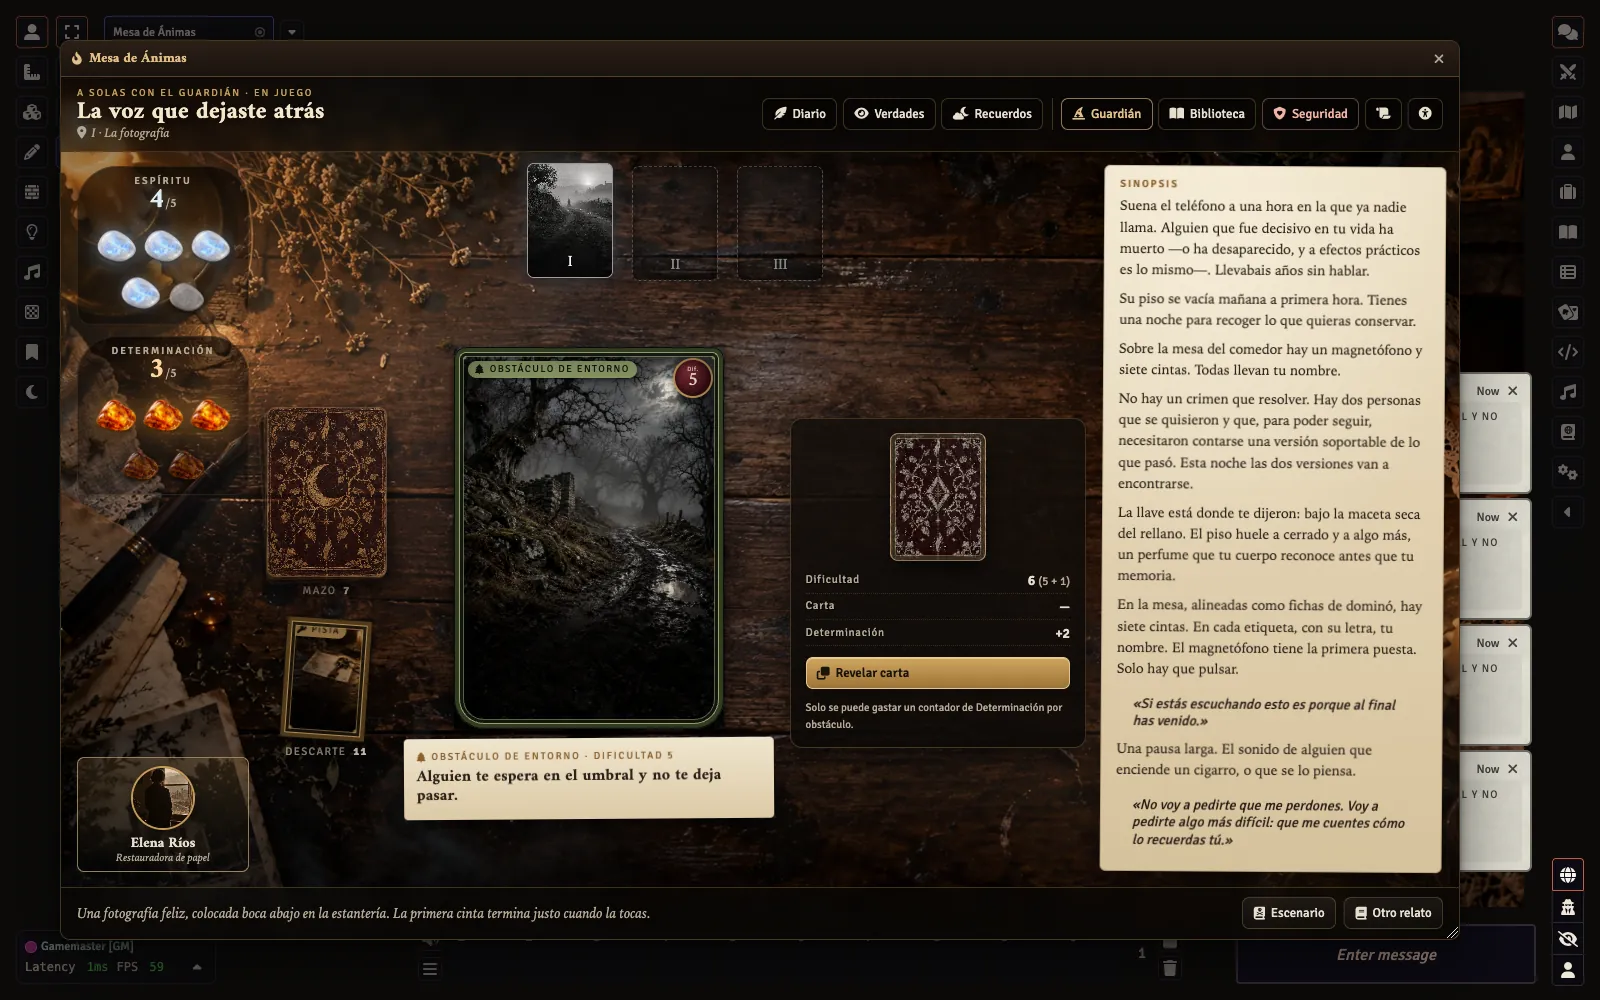
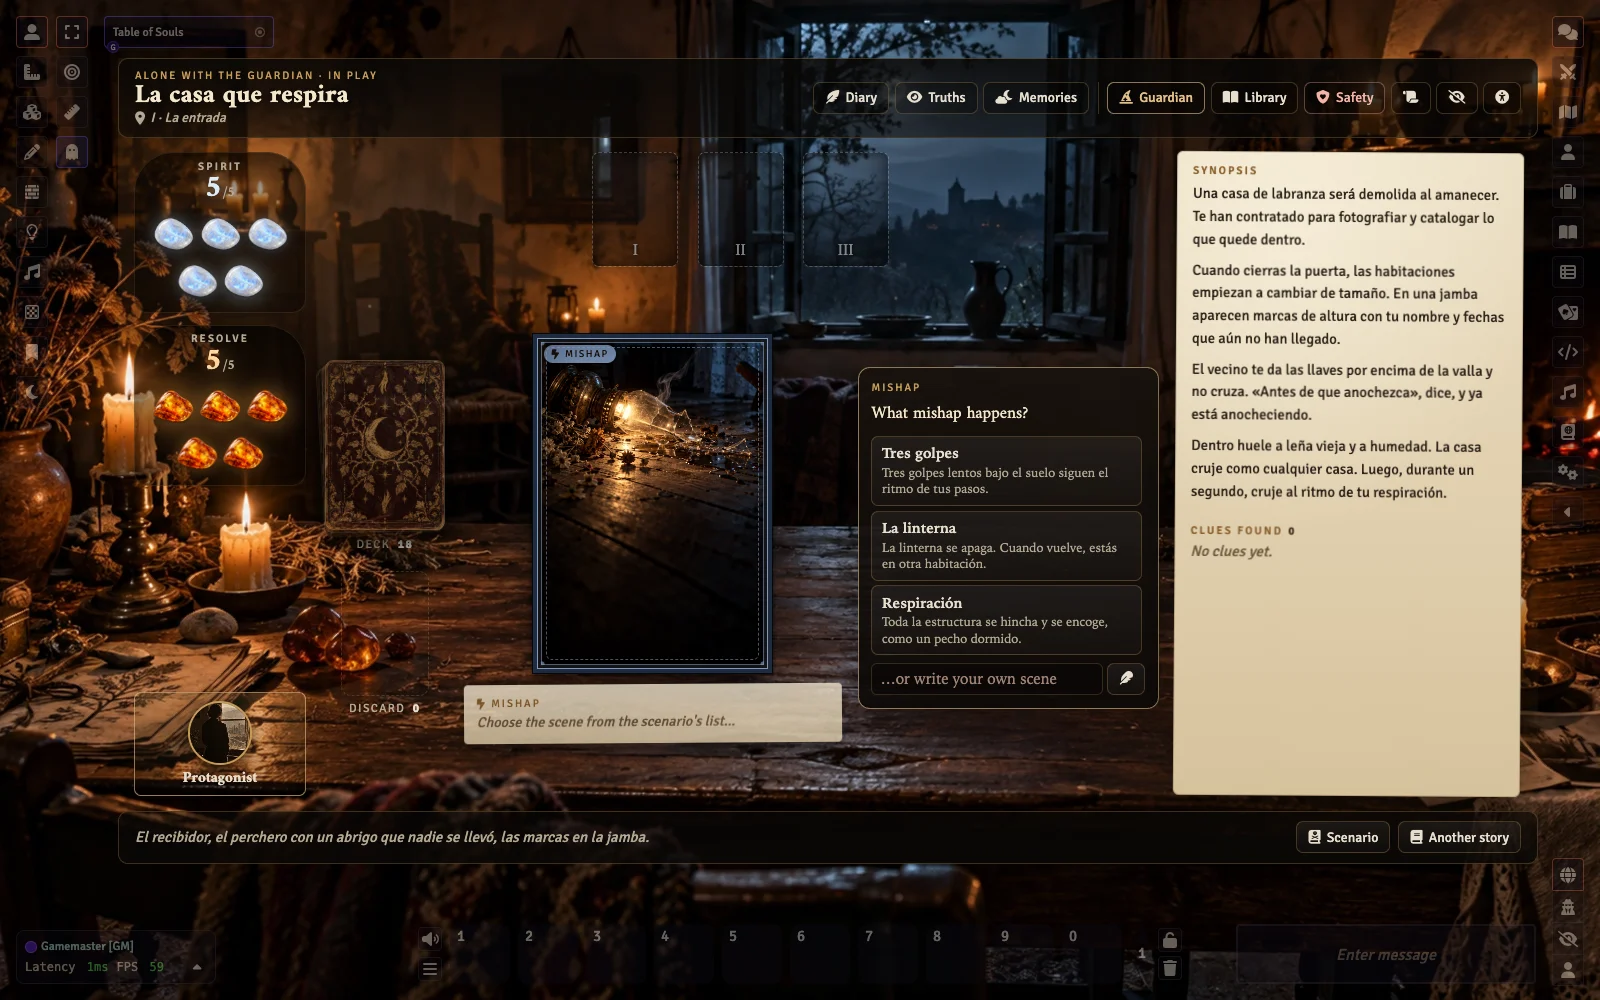
feat: botón de accesibilidad en controles, modo oscuro y web actualizada (2.1.1)

diff --git a/docs/index.html b/docs/index.html
@@ -141,7 +141,8 @@ footer .wrap{display:flex;justify-content:space-between;gap:20px;flex-wrap:wrap}
     <span class="kicker">La Mesa de Ánimas</span>
     <h2>Esto no parece Foundry.<br>Pero funciona como Foundry.</h2>
     <p class="intro">La Mesa es una mesa física vista desde arriba. Robas y la carta sale del mazo, viaja, gira y se asienta. Clic para verla de cerca. Debajo, los documentos <em>Cards</em> de Foundry hacen el trabajo invisible: barajar, robar, descartar, sincronizar.</p>
-    <p class="intro">Nunca se abre sola: tiene su icono en los controles de escena, botones en los directorios y el atajo <b>Mayús + M</b>.</p>
+    <p class="intro">Desde la 2.1 la Mesa no es una ventana: es una <b>capa a pantalla completa sobre la escena de fondo</b>, que cubre toda la pantalla. El ratón atraviesa lo que no es panel, y un ojo en la cabecera (o <b>Mayús + M</b>) la oculta para ver solo la escena; una pastilla con la llama la devuelve.</p>
+    <p class="intro">Nunca se abre sola: tiene su icono en los controles de escena, botones en los directorios y el atajo <b>Mayús + M</b>. La primera vez se ofrece un <b>tutorial guiado</b> (uno para el Guardián y otro para quien juega) que puedes repetir desde Configuración. En el icono de accesibilidad: <b>modo oscuro</b>, alto contraste, tamaño de texto, botones grandes y menos movimiento.</p>
   </div>
 </div></section>
 

diff --git a/CHANGELOG.md b/CHANGELOG.md
@@ -1,5 +1,10 @@
 # Changelog
 
+## 2.1.1 · 2026-10-10
+
+- Accesibilidad más a mano: botón en los controles de escena y «Modo oscuro» con nombre propio (antes «Lectura limpia»).
+- Página del repositorio actualizada: Mesa a pantalla completa, tutorial y accesibilidad, con captura nueva.
+
 ## 2.1.0 · 2026-10-10
 
 - **La Mesa a pantalla completa**: ya no es una ventana, sino una capa sobre la escena entre los controles de Foundry y la barra lateral (que se recoloca sola). Deja pasar el ratón por donde no hay paneles. Se oculta con el ojo de la cabecera, **Mayús+M** o el control de escena; una pastilla con la llama la devuelve. Sigue sin abrirse sola salvo el ajuste «Abrir la Mesa al entrar».
